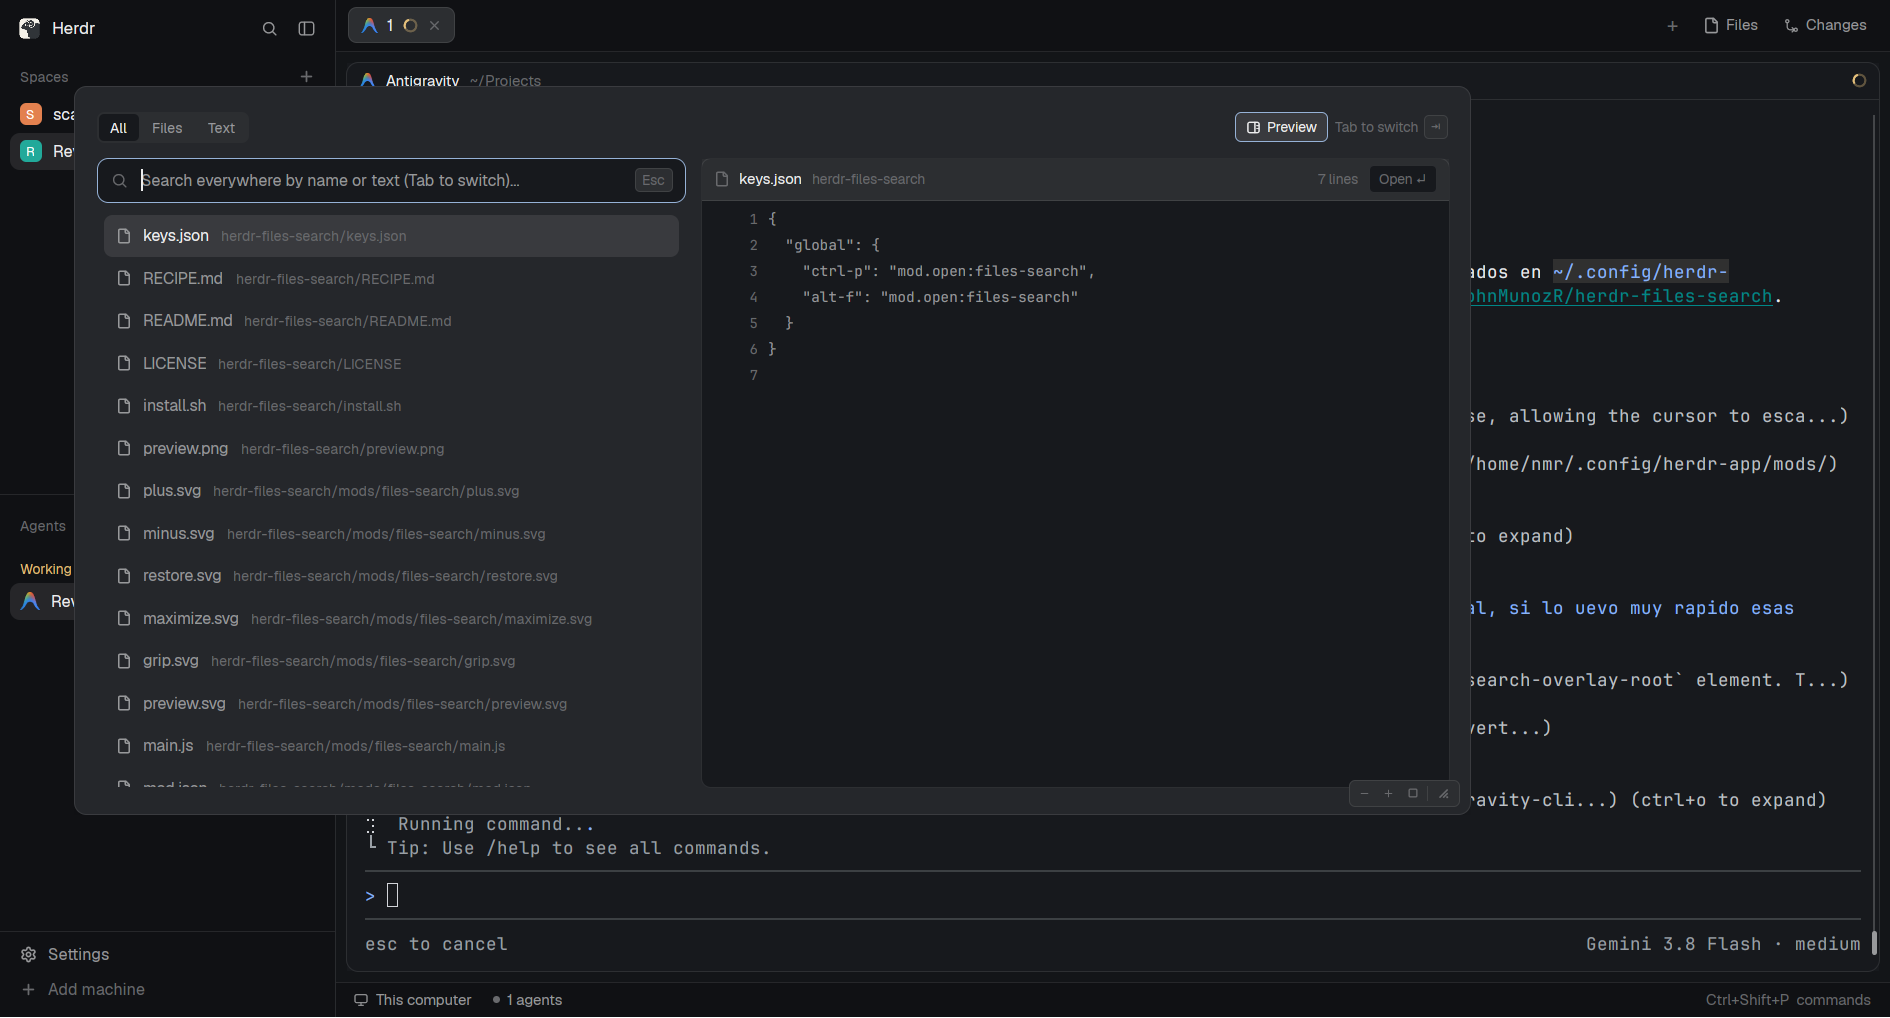
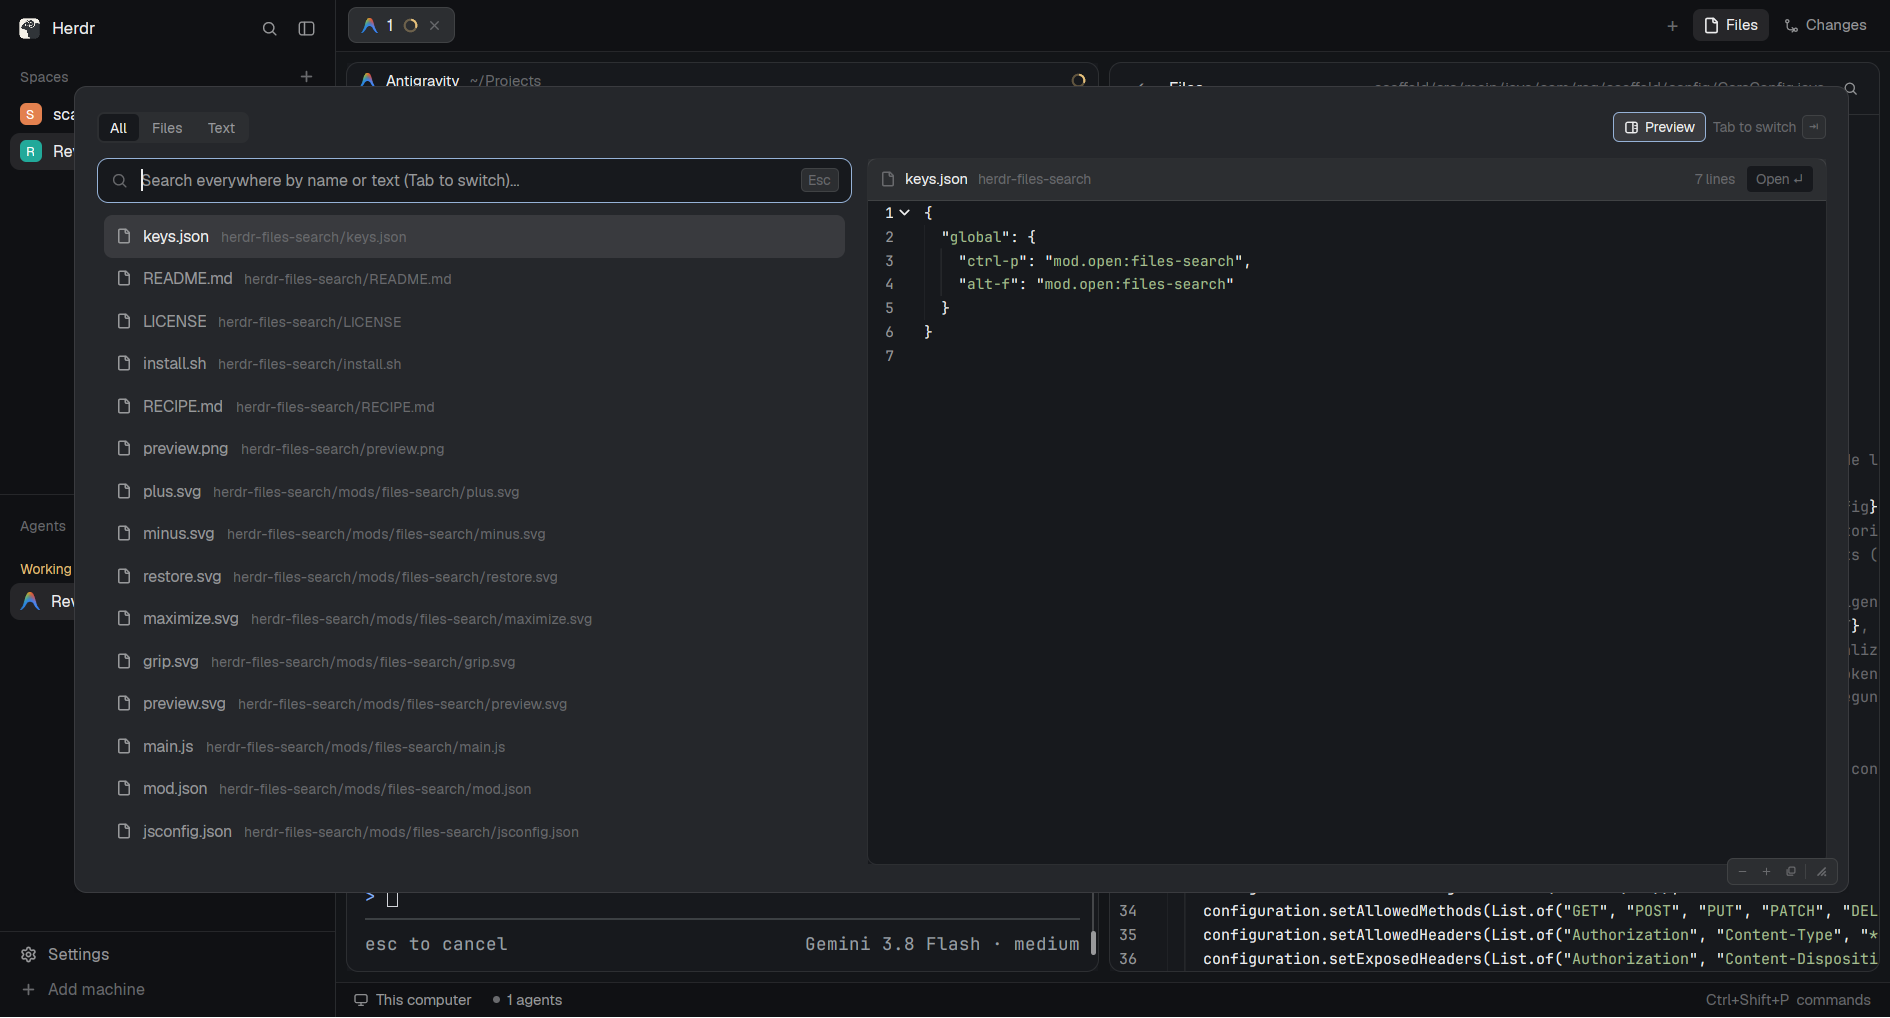
feat: syntax highlighting in search preview pane matching native file viewer

diff --git a/mods/files-search/main.js b/mods/files-search/main.js
@@ -421,6 +421,7 @@ export default class FilesSearch extends View {
     this.previewError = null;
     this.previewScroll = 0;
     this.previewCache = new Map();
+    this.previewEditorState = null;
 
     // Resize state (remembers user size preference)
     const savedSize = shared("files-search.customSize");
@@ -454,7 +455,16 @@ export default class FilesSearch extends View {
     this.loadWorkspaceFiles(cx);
   }
 
+  close(cx) {
+    this.code?.release();
+    this.code = null;
+    this.previewEditorState?.release();
+    this.previewEditorState = null;
+  }
+
   closeOverlay() {
+    this.previewEditorState?.release();
+    this.previewEditorState = null;
     closeOverlay(props().overlay);
   }
 
@@ -512,20 +522,48 @@ export default class FilesSearch extends View {
     cx.notify();
   }
 
+  setPreviewEditor(text, targetPath) {
+    this.previewEditorState?.release();
+    this.previewEditorState = null;
+    if (!text) return;
+    const t = theme(), ext = targetPath.includes(".") ? targetPath.split(".").pop().toLowerCase() : "txt";
+    try {
+      this.previewEditorState = EditorState.new({
+        language: LANG[ext] ?? ext,
+        readonly: true,
+        value: text,
+        font_family: settings()?.font_family,
+        font_size: 11.5,
+        syntax: {
+          keyword: t.ansi5,
+          string: t.ansi2,
+          comment: t.dim,
+          function: t.ansi4,
+          type: t.ansi3,
+          number: t.ansi1,
+          constant: t.ansi6,
+        },
+      });
+    } catch {}
+  }
+
   updatePreview(item, cx) {
     if (!item) {
       this.previewItem = null;
       this.previewLines = [];
       this.previewError = null;
       this.previewLoading = false;
+      this.previewEditorState?.release();
+      this.previewEditorState = null;
       return;
     }
     this.previewItem = item;
     const cached = this.previewCache.get(item.path);
     if (cached !== undefined) {
-      this.previewLines = cached;
+      this.previewLines = cached.lines;
       this.previewError = null;
       this.previewLoading = false;
+      this.setPreviewEditor(cached.text, item.path);
       if (item.kind === "text" && item.line) {
         this.previewScroll = Math.max(0, item.line - 6);
       } else {
@@ -537,6 +575,8 @@ export default class FilesSearch extends View {
     this.previewLoading = true;
     this.previewError = null;
     this.previewLines = [];
+    this.previewEditorState?.release();
+    this.previewEditorState = null;
 
     const root = this.searchRoot;
     const on = this.searchOn;
@@ -557,8 +597,9 @@ export default class FilesSearch extends View {
         }
         const clean = text.length > 400000 ? text.slice(0, 400000) : text;
         const lines = clean.split("\n");
-        this.previewCache.set(targetPath, lines);
+        this.previewCache.set(targetPath, { lines, text: clean });
         this.previewLines = lines;
+        this.setPreviewEditor(clean, targetPath);
         if (item.kind === "text" && item.line) {
           this.previewScroll = Math.max(0, item.line - 6);
         } else {
@@ -786,6 +827,90 @@ export default class FilesSearch extends View {
       .child(div().text_color(t.dim).child(after.replace(/ /g, "\u00a0")));
   }
 
+  renderSyntaxLine(t, text, ext, query, isTarget) {
+    if (!text) return div().child("\u00a0");
+    const clean = text.replace(/\t/g, "    ");
+
+    const tokenRegex = /(\/\/.*$|#.*$|"(?:[^"\\]|\\.)*"|'(?:[^'\\]|\\.)*'|`(?:[^`\\]|\\.)*`|\b(?:class|public|private|protected|static|final|abstract|interface|extends|implements|import|package|return|new|this|super|if|else|for|while|do|switch|case|default|break|continue|try|catch|finally|throw|throws|void|int|long|short|byte|float|double|boolean|char|const|let|var|function|def|fn|async|await|export|from|as|type|struct|impl|trait|pub|mut|match|enum|select|defer|go)\b|\b[a-zA-Z_$][a-zA-Z0-9_$]*(?=\s*\()|\b[A-Z][a-zA-Z0-9_]*\b|\b(?:true|false|null|nil|None|undefined|[A-Z0-9_]{2,})\b|\b(?:0x[0-9a-fA-F]+|\d+(?:\.\d+)?)\b)/g;
+
+    const spans = [];
+    let lastIndex = 0;
+    let match;
+    const lowerQ = query ? query.toLowerCase() : "";
+
+    const addTextChunk = (str, color, isBold = false) => {
+      if (!str) return;
+      if (lowerQ && str.toLowerCase().includes(lowerQ)) {
+        const lowerStr = str.toLowerCase();
+        let cur = 0;
+        let qIdx = lowerStr.indexOf(lowerQ, cur);
+        while (qIdx !== -1) {
+          if (qIdx > cur) {
+            spans.push({ text: str.slice(cur, qIdx), color, bold: isBold });
+          }
+          spans.push({ text: str.slice(qIdx, qIdx + query.length), color: t.background, bold: true, bg: t.accent });
+          cur = qIdx + query.length;
+          qIdx = lowerStr.indexOf(lowerQ, cur);
+        }
+        if (cur < str.length) {
+          spans.push({ text: str.slice(cur), color, bold: isBold });
+        }
+      } else {
+        spans.push({ text: str, color, bold: isBold });
+      }
+    };
+
+    while ((match = tokenRegex.exec(clean)) !== null) {
+      if (match.index > lastIndex) {
+        addTextChunk(clean.slice(lastIndex, match.index), isTarget ? t.foreground : t.muted);
+      }
+      const tok = match[0];
+      let color = isTarget ? t.foreground : t.muted;
+      let bold = false;
+
+      if (tok.startsWith("//") || tok.startsWith("#")) {
+        color = t.dim;
+      } else if (tok.startsWith('"') || tok.startsWith("'") || tok.startsWith("`")) {
+        color = t.ansi2;
+      } else if (/^\d/.test(tok) || tok.startsWith("0x")) {
+        color = t.ansi1;
+      } else if (/^(true|false|null|nil|None|undefined)$/.test(tok) || (tok.length > 1 && tok === tok.toUpperCase() && /^[A-Z0-9_]+$/.test(tok))) {
+        color = t.ansi6;
+      } else if (/^(class|public|private|protected|static|final|abstract|interface|extends|implements|import|package|return|new|this|super|if|else|for|while|do|switch|case|default|break|continue|try|catch|finally|throw|throws|void|int|long|short|byte|float|double|boolean|char|const|let|var|function|def|fn|async|await|export|from|as|type|struct|impl|trait|pub|mut|match|enum|select|defer|go)$/.test(tok)) {
+        color = t.ansi5;
+        bold = true;
+      } else if (/^[A-Z]/.test(tok)) {
+        color = t.ansi3;
+      } else {
+        color = t.ansi4;
+      }
+
+      addTextChunk(tok, color, bold);
+      lastIndex = tokenRegex.lastIndex;
+    }
+
+    if (lastIndex < clean.length) {
+      addTextChunk(clean.slice(lastIndex), isTarget ? t.foreground : t.muted);
+    }
+
+    if (spans.length === 0) {
+      return div().child(clean ? clean.replace(/ /g, "\u00a0") : "\u00a0");
+    }
+
+    const row = h_flex().items_center();
+    spans.forEach((s) => {
+      const el = div()
+        .text_size(11.5)
+        .font_family(settings()?.font_family || "monospace")
+        .text_color(s.color)
+        .when(Boolean(s.bold), d => d.font_semibold())
+        .when(Boolean(s.bg), d => d.bg(s.bg).rounded(2).px(2))
+        .child(s.text.replace(/ /g, "\u00a0"));
+      row.child(el);
+    });
+    return row;
+  }
+
   renderHighlightedCodeLine(t, text, query) {
     if (!text || !query) return div().child(text ? text.replace(/\t/g, "    ").replace(/ /g, "\u00a0") : "\u00a0");
     const clean = text.replace(/\t/g, "    ");
@@ -831,6 +956,7 @@ export default class FilesSearch extends View {
     const targetLine = isTextMatch ? item.line : null;
     const fileName = item.path.split("/").pop() || item.path;
     const dirPath = item.path.includes("/") ? item.path.slice(0, item.path.lastIndexOf("/")) : "";
+    const ext = item.path.includes(".") ? item.path.split(".").pop().toLowerCase() : "";
 
     const LINE_H = 21;
     const VISIBLE_ROWS = Math.max(5, Math.floor((listH + 12) / LINE_H));
@@ -870,21 +996,13 @@ export default class FilesSearch extends View {
               .when(isTarget, el => el.font_semibold())
               .child(String(lineNum))
           )
-          // Line Content
+          // Line Content with Syntax Highlighting
           .child(
             div()
               .flex_1()
               .min_w(0)
               .truncate()
-              .text_size(11.5)
-              .font_family(settings()?.font_family || "monospace")
-              .text_color(isTarget ? t.foreground : t.muted)
-              .when(isTarget && item.matchedQuery, el =>
-                el.child(this.renderHighlightedCodeLine(t, lineContent, item.matchedQuery))
-              )
-              .when(!isTarget || !item.matchedQuery, el =>
-                el.child(lineContent ? lineContent.replace(/\t/g, "    ").replace(/ /g, "\u00a0") : "\u00a0")
-              )
+              .child(this.renderSyntaxLine(t, lineContent, ext, isTarget ? item.matchedQuery : null, isTarget))
           )
       );
     }
@@ -957,23 +1075,28 @@ export default class FilesSearch extends View {
           .flex_1()
           .min_h(0)
           .overflow_hidden()
-          .py(4)
-          .on_scroll_wheel((e, cx) => {
-            const delta = e.delta.y > 0 ? -3 : 3;
-            this.previewScroll = Math.max(0, Math.min(maxScroll, this.previewScroll + delta));
-            cx.notify();
-          })
           .when(this.previewLoading, el =>
             el.child(div().p(20).text_center().text_size(12).text_color(t.dim).child("Loading preview…"))
           )
           .when(!this.previewLoading && Boolean(this.previewError), el =>
             el.child(div().p(20).text_center().text_size(12).text_color(t.dim).child(this.previewError))
           )
-          .when(!this.previewLoading && !this.previewError && visibleLines.length === 0, el =>
-            el.child(div().p(20).text_center().text_size(12).text_color(t.dim).child("Empty file"))
+          .when(!this.previewLoading && !this.previewError && !targetLine, el =>
+            el.child(
+              this.previewEditorState
+                ? Editor.new(this.previewEditorState).flex_1().min_h(0)
+                : div().p(20).text_center().text_size(12).text_color(t.dim).child(visibleLines.length === 0 ? "Empty file" : "Loading preview…")
+            )
           )
-          .when(!this.previewLoading && !this.previewError && visibleLines.length > 0, el =>
-            el.children(visibleLines)
+          .when(!this.previewLoading && !this.previewError && Boolean(targetLine), el =>
+            el
+              .py(4)
+              .on_scroll_wheel((e, cx) => {
+                const delta = e.delta.y > 0 ? -3 : 3;
+                this.previewScroll = Math.max(0, Math.min(maxScroll, this.previewScroll + delta));
+                cx.notify();
+              })
+              .children(visibleLines.length > 0 ? visibleLines : [div().p(20).text_center().text_size(12).text_color(t.dim).child("Empty file")])
           )
       );
   }
